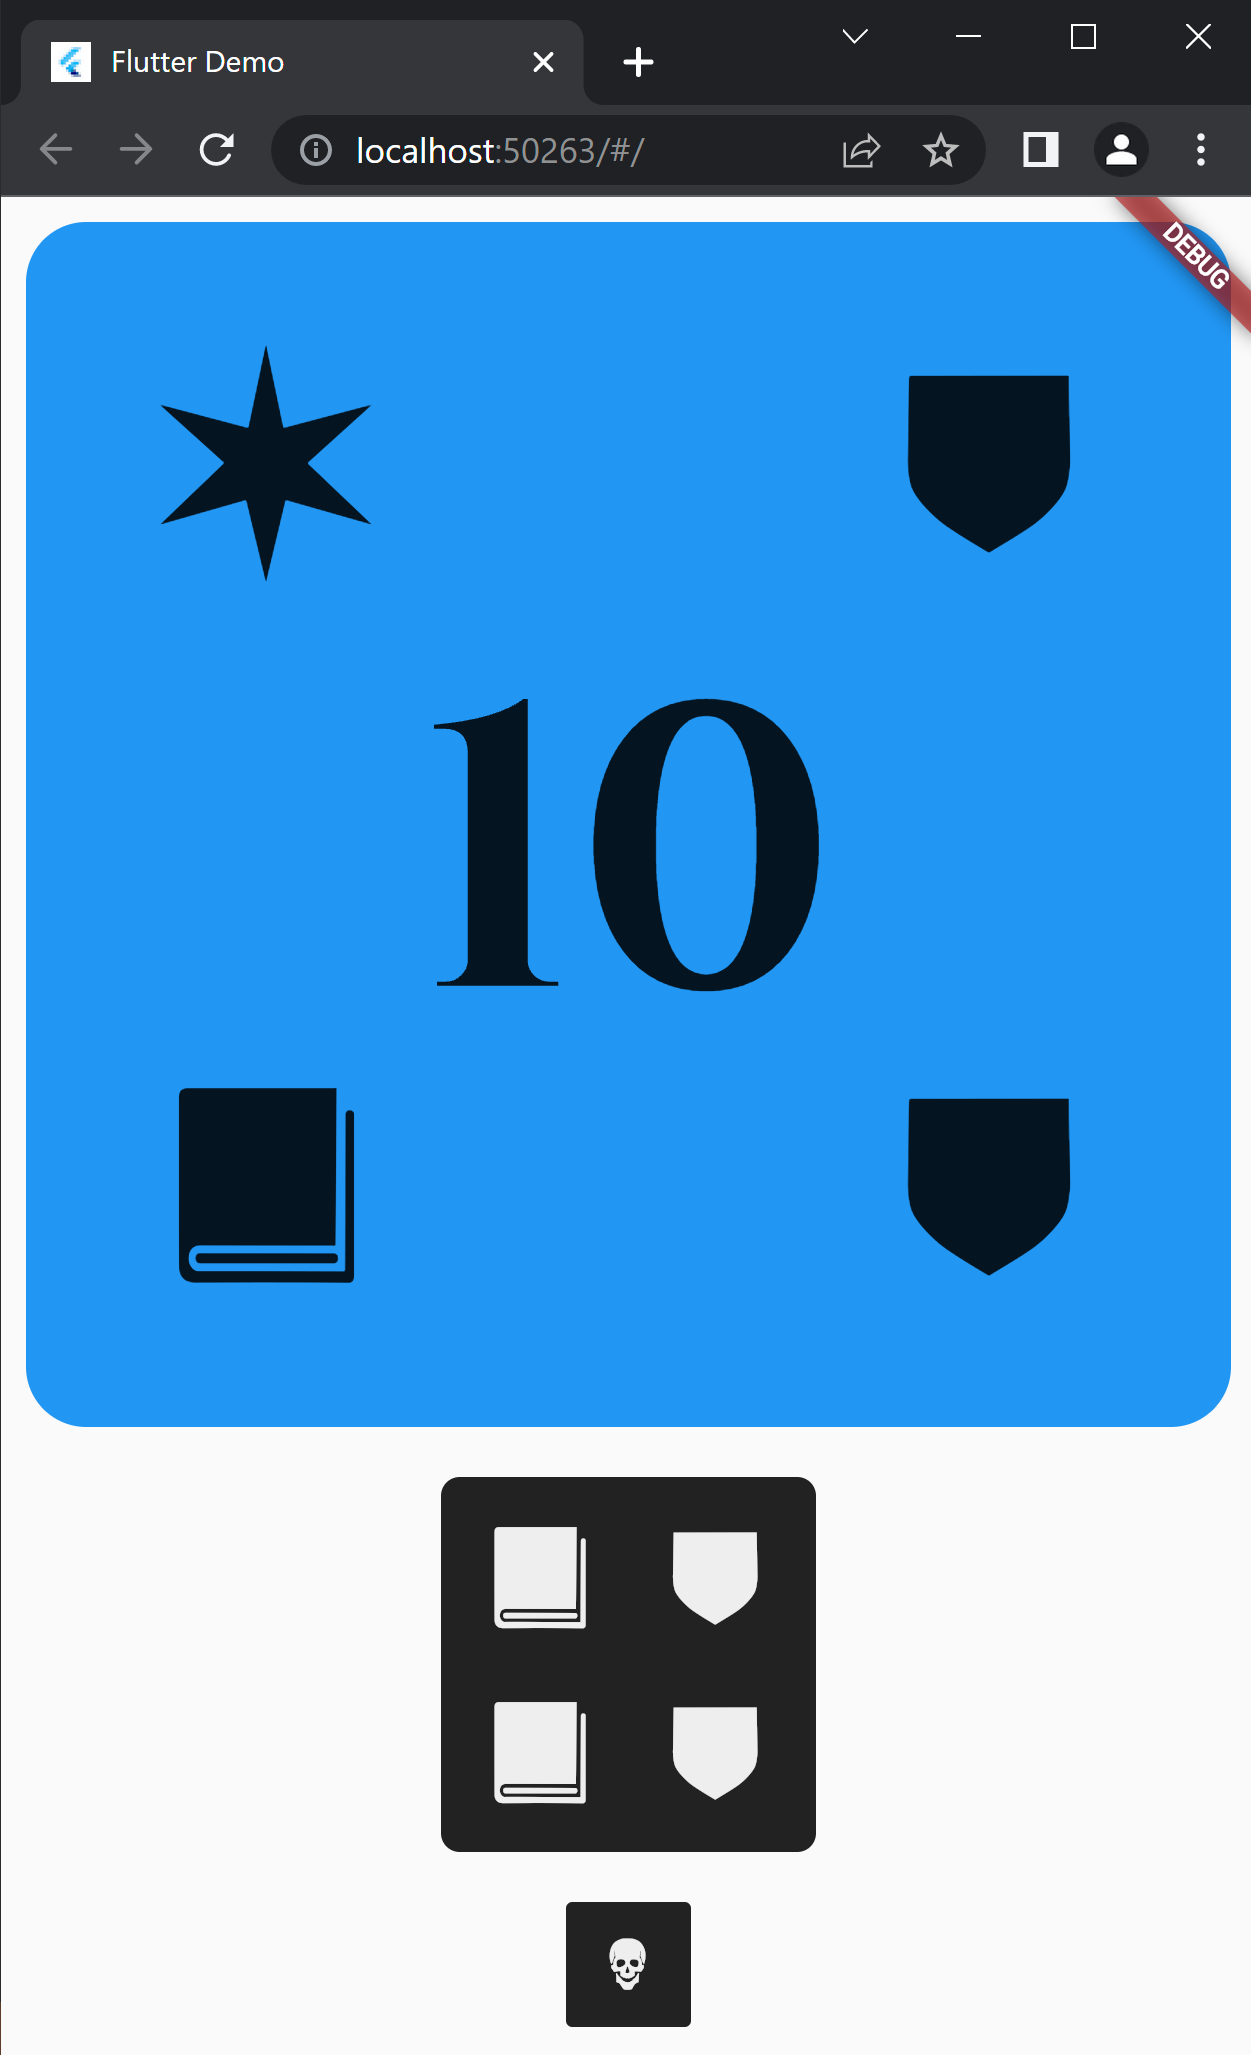
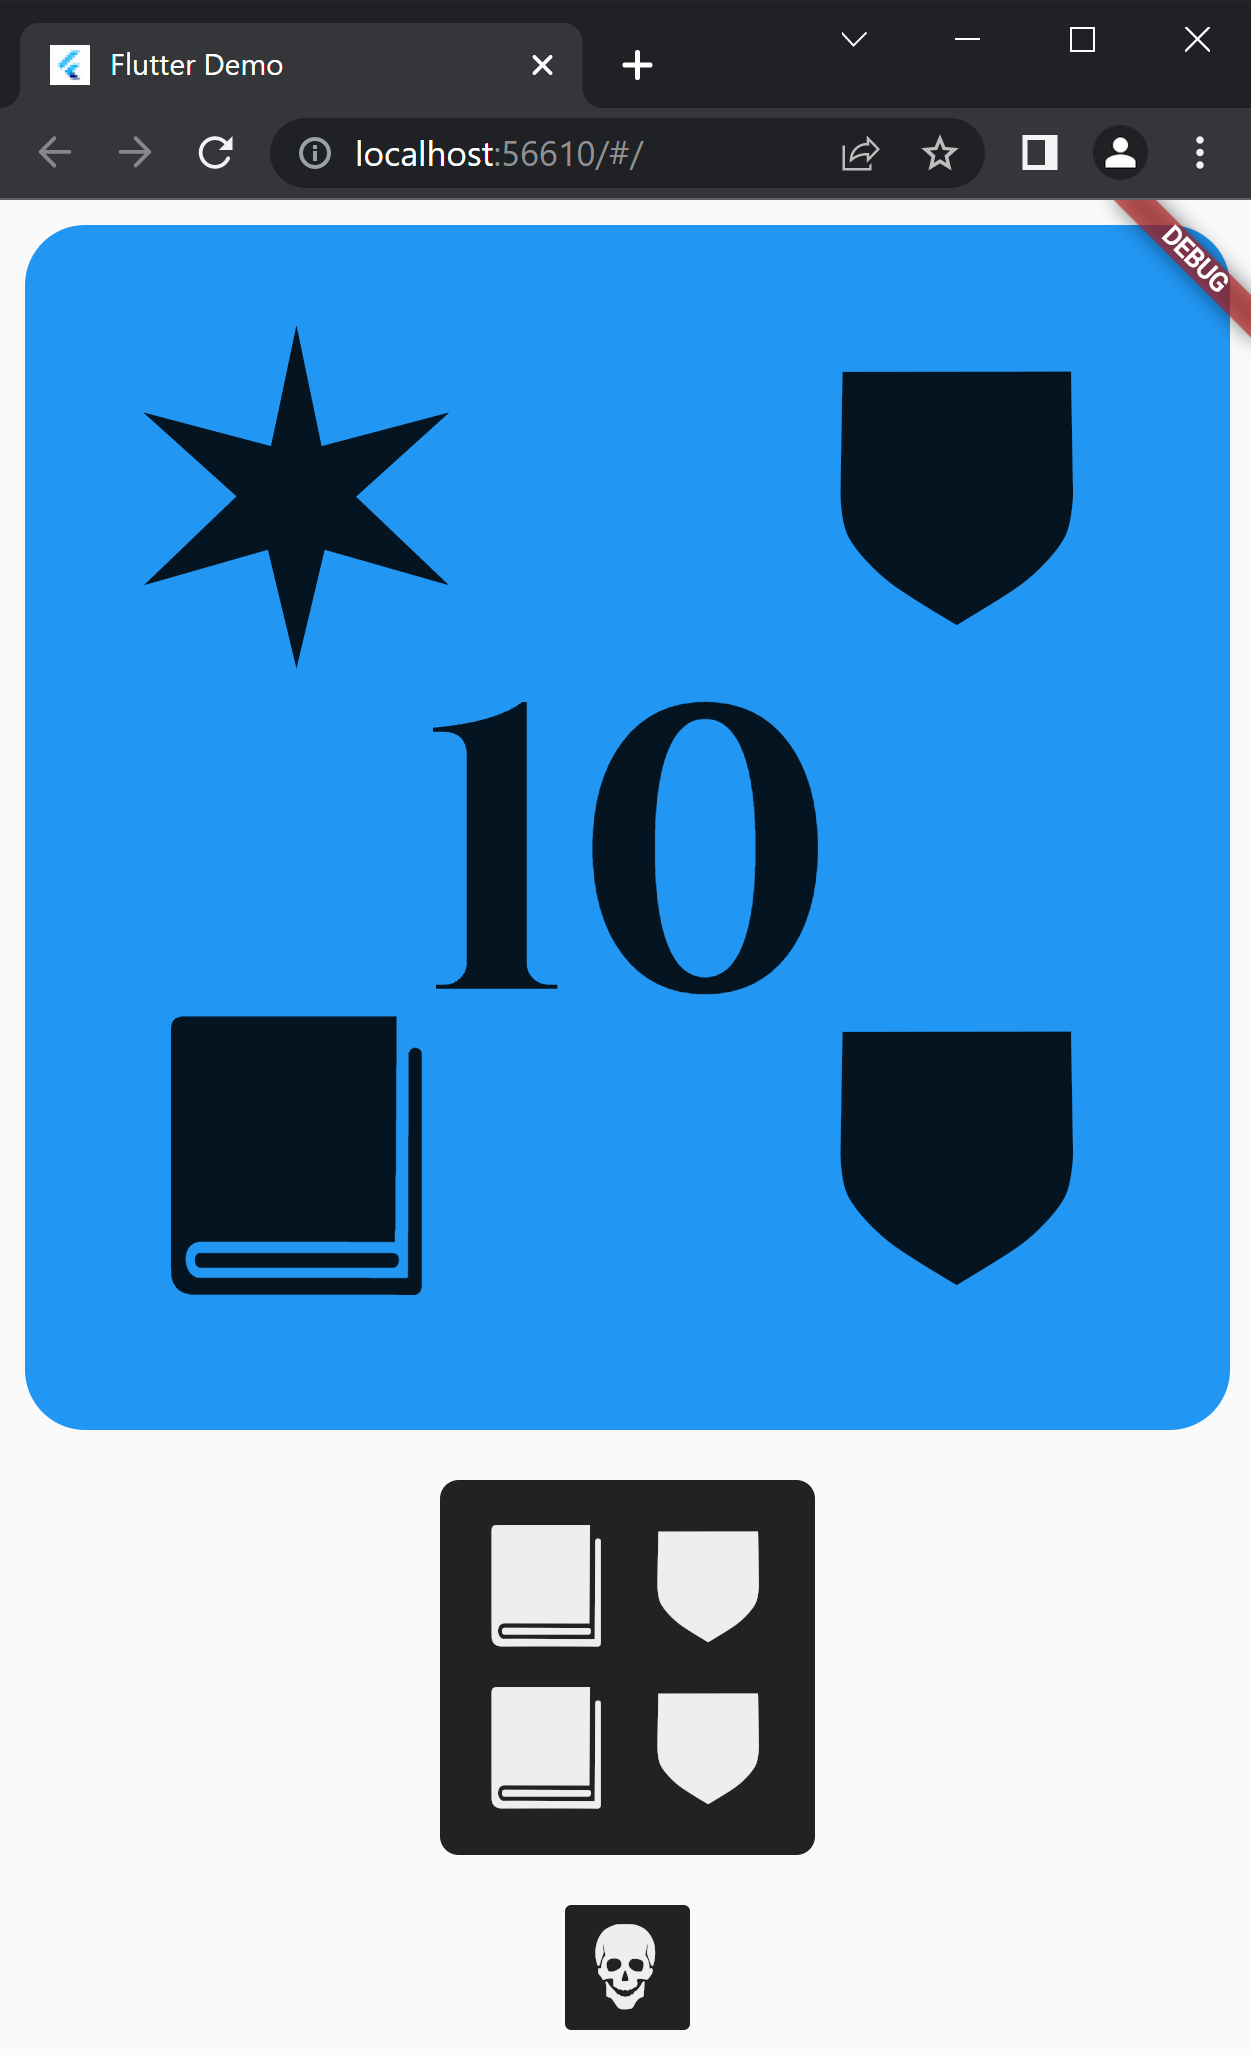
Tweak numbers to more closely match original dice.

diff --git a/lib/die_face.dart b/lib/die_face.dart
@@ -21,11 +21,11 @@ class DieFace extends StatelessWidget {
   final int? number;
 
   // These are divisors, so a larger number is a smaller icon.
-  static int largeIconScale = 3;
-  static int smallIconScale = 5;
-  static int iconPaddingScale = 10;
+  static double largeIconScale = 2.5;
+  static double smallIconScale = 3.5;
+  static int iconPaddingScale = 12;
   static int textScale = 3;
-  static int skullScale = 2;
+  static double skullScale = 1.2;
   static int radiusScale = 20;
 
   IconData? _iconFromEnum(DieIcon iconEnum) {
